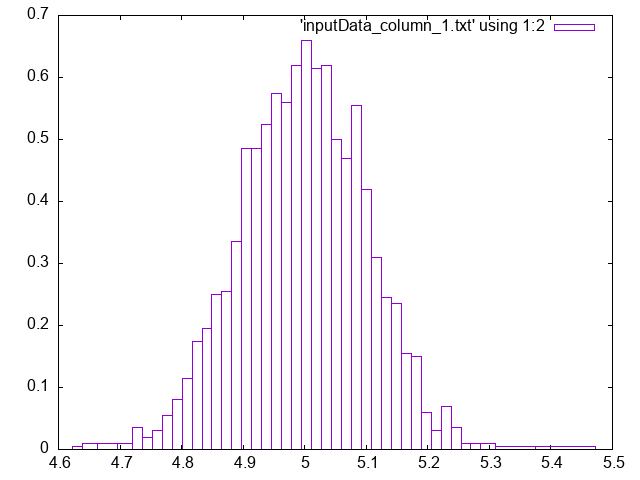
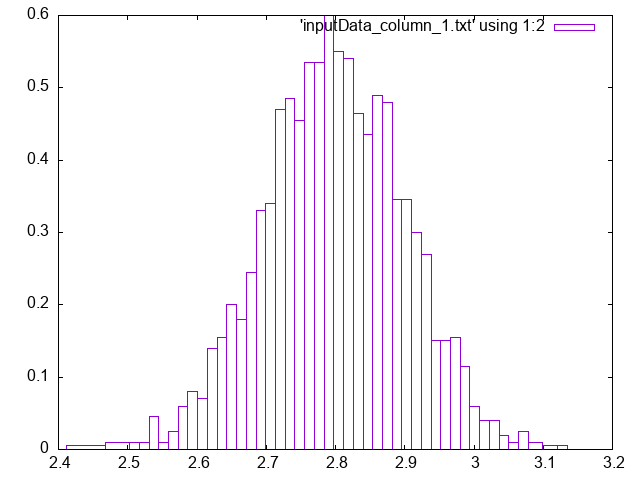
working EXTREMELY unstable with random params

diff --git a/mcmc2.cpp b/mcmc2.cpp
@@ -37,7 +37,8 @@ public:
         int batchSize)
       : DIM(dim), noiseStddev(noiseStddev), lowBound(lowBd),
         upperBound(upperBd), batchSize(batchSize) {
-    trueParams = {1.0, 2.0, 3.0};
+    trueParams = {-1.0, -2.0, 3.0};
+    trueParams = generateRandomVector(dim, lowBound, upperBound);
   }
 
   // Генерация данных с добавлением шума
@@ -60,7 +61,7 @@ public:
     }
     return DATA;
   }
-
+  std::vector<double> getTrue() const { return trueParams; }
   // Функция модели, которая возвращает вектор значений
   std::vector<double> function(const std::vector<double> &x) const {
     std::vector<double> result;
@@ -267,7 +268,12 @@ void plotHistogram(const std::string &filename) {
                         ".txt' using 1:2 with boxes\"";
   system(command.c_str());
 }
-
+void printVector(const std::vector<double> &vec) {
+  for (double v : vec) {
+    std::cout << v << " ";
+  }
+  std::cout << std::endl;
+}
 int main() {
   int dim = 3;              // Количество параметров
   int sampleSize = 200;     // Количество выборок
@@ -292,10 +298,11 @@ int main() {
 
   std::cout << "\nMean of each parameter after " << sampleSize
             << " samples:" << std::endl;
-  for (double m : mean) {
-    std::cout << m << " ";
-  }
-  std::cout << std::endl;
+  printVector(mean);
+
+  std::cout << "\nTrue parameters\n ";
+  std::vector<double> trueParams = model.getTrue();
+  printVector(trueParams);
 
   // Получаем сгенерированные данные
   auto inputData = model.getData();
